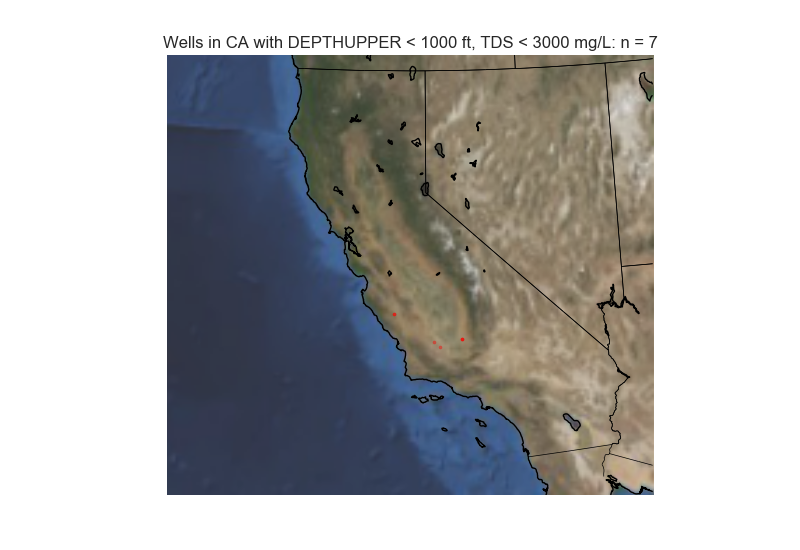
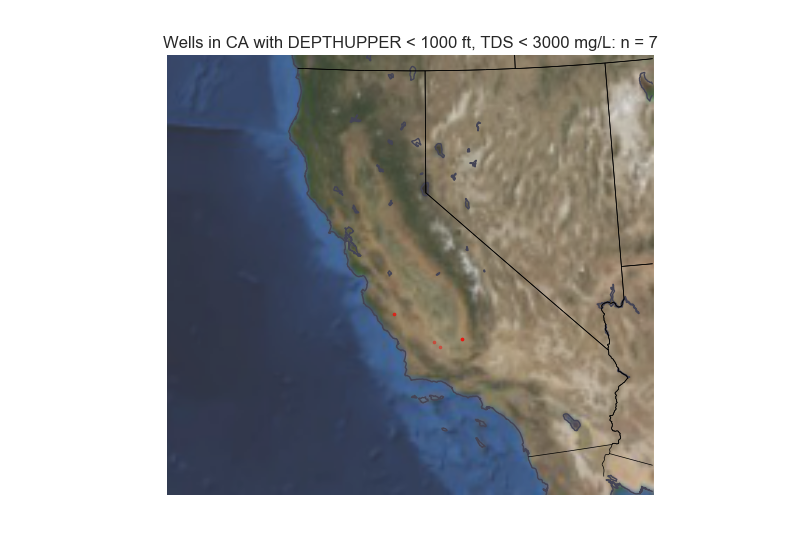
Use lighter coastline

diff --git a/maps.py b/maps.py
@@ -21,7 +21,7 @@ def make_ca_map(df, filename, title):
     ca_map = Basemap(resolution='h', projection='lcc', width=1284000, height=1164000,
                      lat_1=30, lat_2=60, lat_0=37, lon_0=-120.5, rsphere=6370000)
     ca_map.bluemarble(alpha=0.8)
-    ca_map.drawcoastlines()
+    ca_map.drawcoastlines(color='#444455')
     ca_map.drawcountries()
     ca_map.drawstates()
     x, y = ca_map(df.LONGITUDE.values, df.LATITUDE.values)
